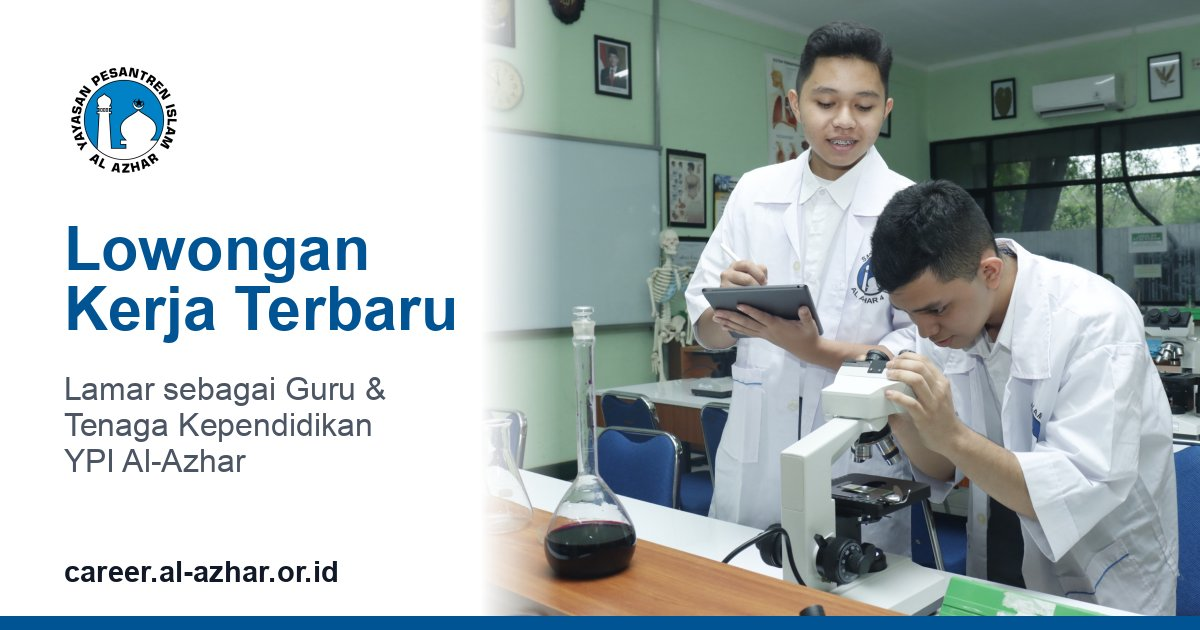
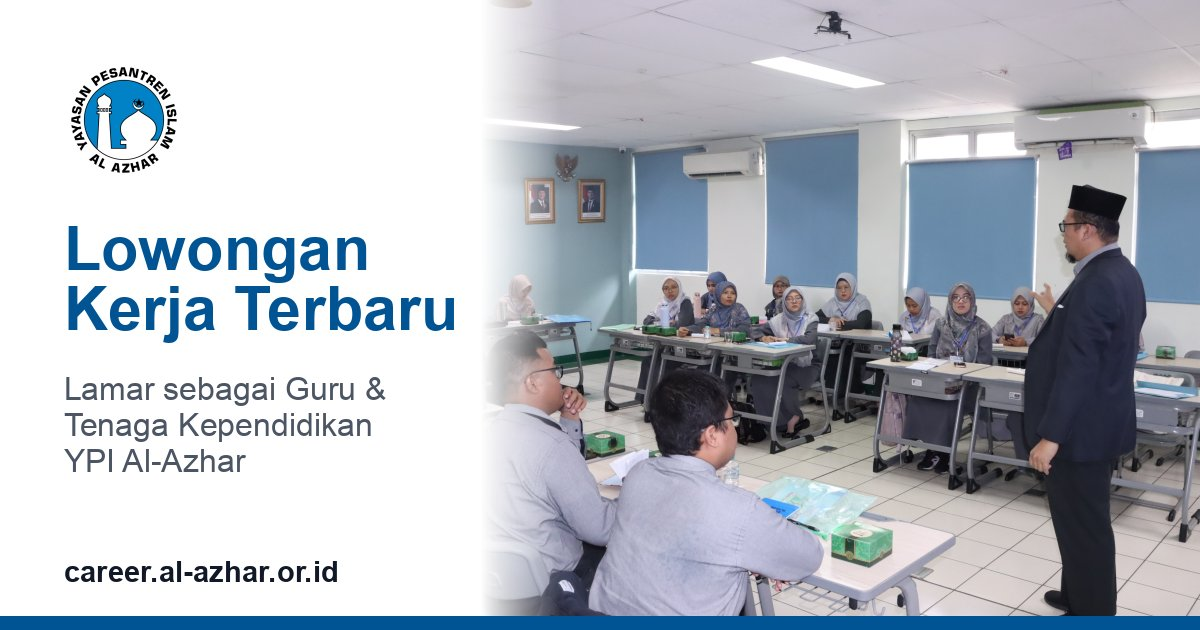
Ganti foto gambar pratinjau tautan (IMG_7345) dan naikkan versi URL gambar ke v=3

diff --git a/tests/Feature/LinkPreviewMetaTest.php b/tests/Feature/LinkPreviewMetaTest.php
@@ -92,7 +92,7 @@ class LinkPreviewMetaTest extends TestCase
             ->assertOk()
             ->assertSee('<meta property="og:title" content="Rekrutmen YPI Al Azhar">', false)
             ->assertSee('<meta property="og:description" content="Bergabunglah bersama Yayasan Pesantren Islam Al-Azhar. 1 Lowongan kerja tersedia, lamar sekarang!">', false)
-            ->assertSee('<meta property="og:image" content="'.asset('images/og/og-default.jpg').'?v=2">', false)
+            ->assertSee('<meta property="og:image" content="'.asset('images/og/og-default.jpg').'?v=3">', false)
             ->assertSee('<meta name="twitter:card" content="summary_large_image">', false);
     }
 
@@ -104,7 +104,7 @@ class LinkPreviewMetaTest extends TestCase
             ->assertOk()
             ->assertSee('<meta property="og:title" content="Lowongan Kerja - Rekrutmen YPI Al Azhar">', false)
             ->assertSee('<meta property="og:description" content="1 lowongan tersedia, lamar sekarang!">', false)
-            ->assertSee('<meta property="og:image" content="'.asset('images/og/og-lowongan.jpg').'?v=2">', false)
+            ->assertSee('<meta property="og:image" content="'.asset('images/og/og-lowongan.jpg').'?v=3">', false)
             ->assertSee('<meta property="og:url" content="'.url('/lowongan').'">', false);
     }
 

diff --git a/resources/views/public/lowongan.blade.php b/resources/views/public/lowongan.blade.php
@@ -1,7 +1,7 @@
 <x-layouts.public
     :title="'Lowongan Kerja - Rekrutmen YPI Al Azhar'"
     :description="$lokerList->count() > 0 ? $lokerList->count().' lowongan tersedia, lamar sekarang!' : 'Pantau lowongan terbaru dan lamar sekarang!'"
-    :image="asset('images/og/og-lowongan.jpg').'?v=2'"
+    :image="asset('images/og/og-lowongan.jpg').'?v=3'"
 >
     <div class="w-full px-4 sm:px-6 lg:px-10 xl:px-16 py-6 sm:py-10"
          x-data="tableFilter(25, { unit: '', jenjang: '', wilayah: '' }, { terbaru: { field: 'start', dir: 'desc' }, terlama: { field: 'start', dir: 'asc' }, batas_terdekat: { field: 'end', dir: 'asc' } })"

diff --git a/resources/views/components/layouts/public.blade.php b/resources/views/components/layouts/public.blade.php
@@ -13,7 +13,7 @@
             trim(preg_replace('/\s+/', ' ', $description ?? 'Portal rekrutmen resmi Yayasan Pesantren Islam Al Azhar. Lihat lowongan guru dan tenaga kependidikan yang sedang dibuka dan lamar secara online.')),
             200
         );
-        $metaImage = $image ?? asset('images/og/og-default.jpg').'?v=2';
+        $metaImage = $image ?? asset('images/og/og-default.jpg').'?v=3';
         $metaUrl = $url ?? url()->current();
     @endphp
     <meta name="description" content="{{ $metaDescription }}">

diff --git a/resources/views/public/show.blade.php b/resources/views/public/show.blade.php
@@ -9,7 +9,7 @@
 <x-layouts.public
     :title="$loker->judul_loker.' - Rekrutmen YPI Al Azhar'"
     :description="$previewDescription"
-    :image="asset('images/og/og-lowongan.jpg').'?v=2'"
+    :image="asset('images/og/og-lowongan.jpg').'?v=3'"
 >
   <div class="max-w-5xl mx-auto px-4 sm:px-6 lg:px-8 py-8" x-data="{ lamaranSuksesOpen: {{ session('lamaran_sukses') ? 'true' : 'false' }} }">
     @if (session('lamaran_sukses'))
